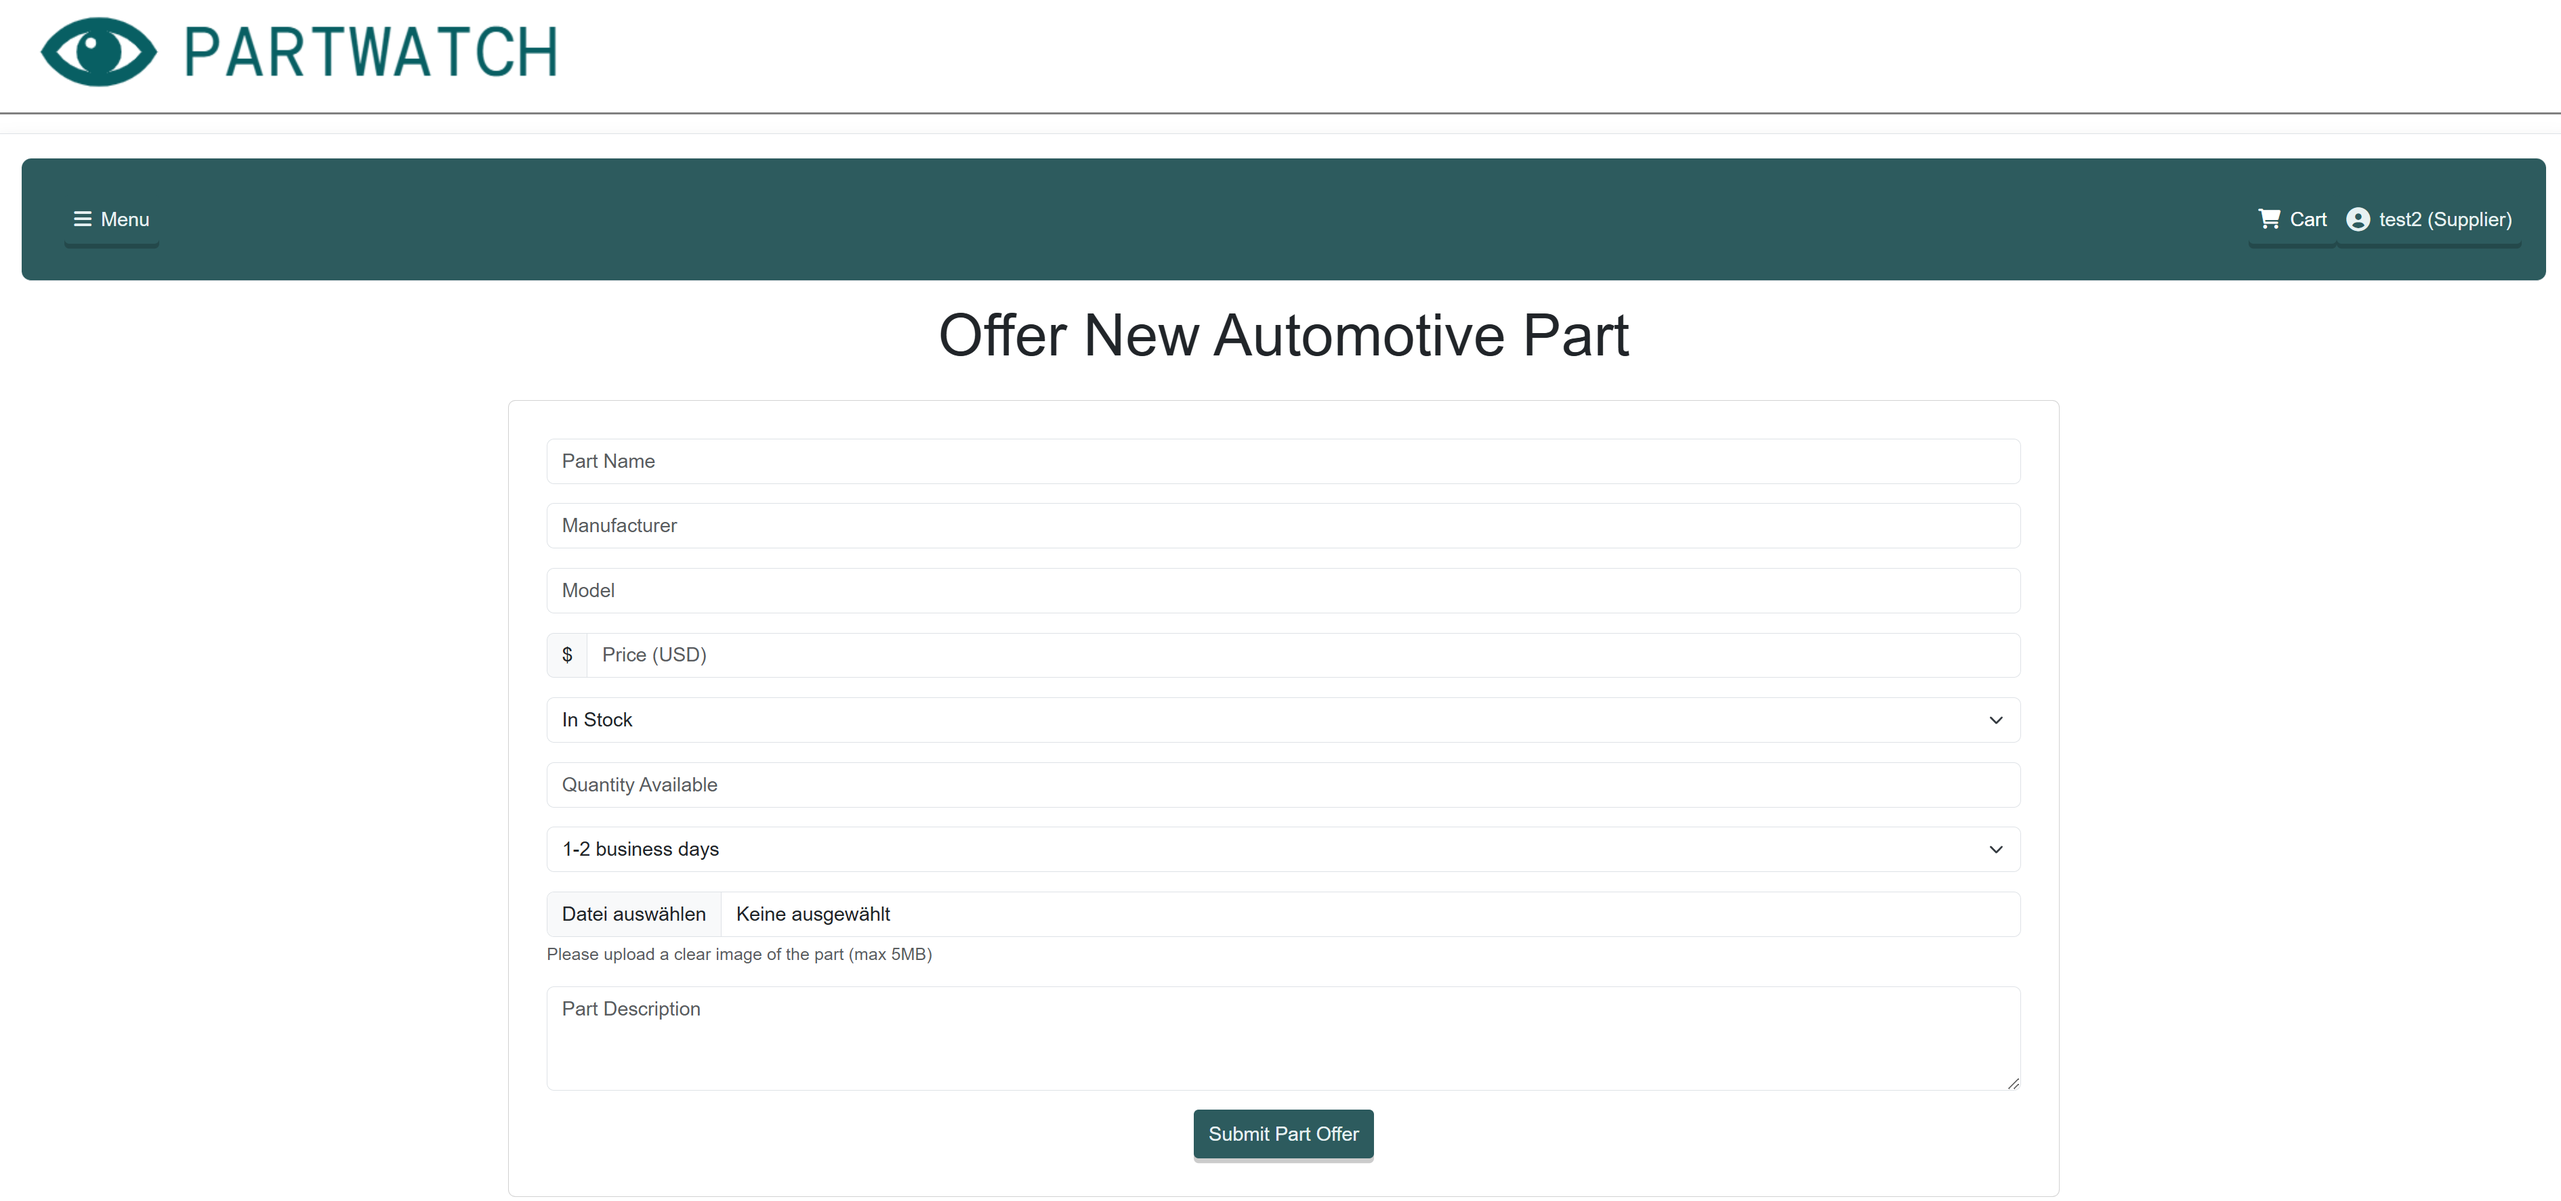
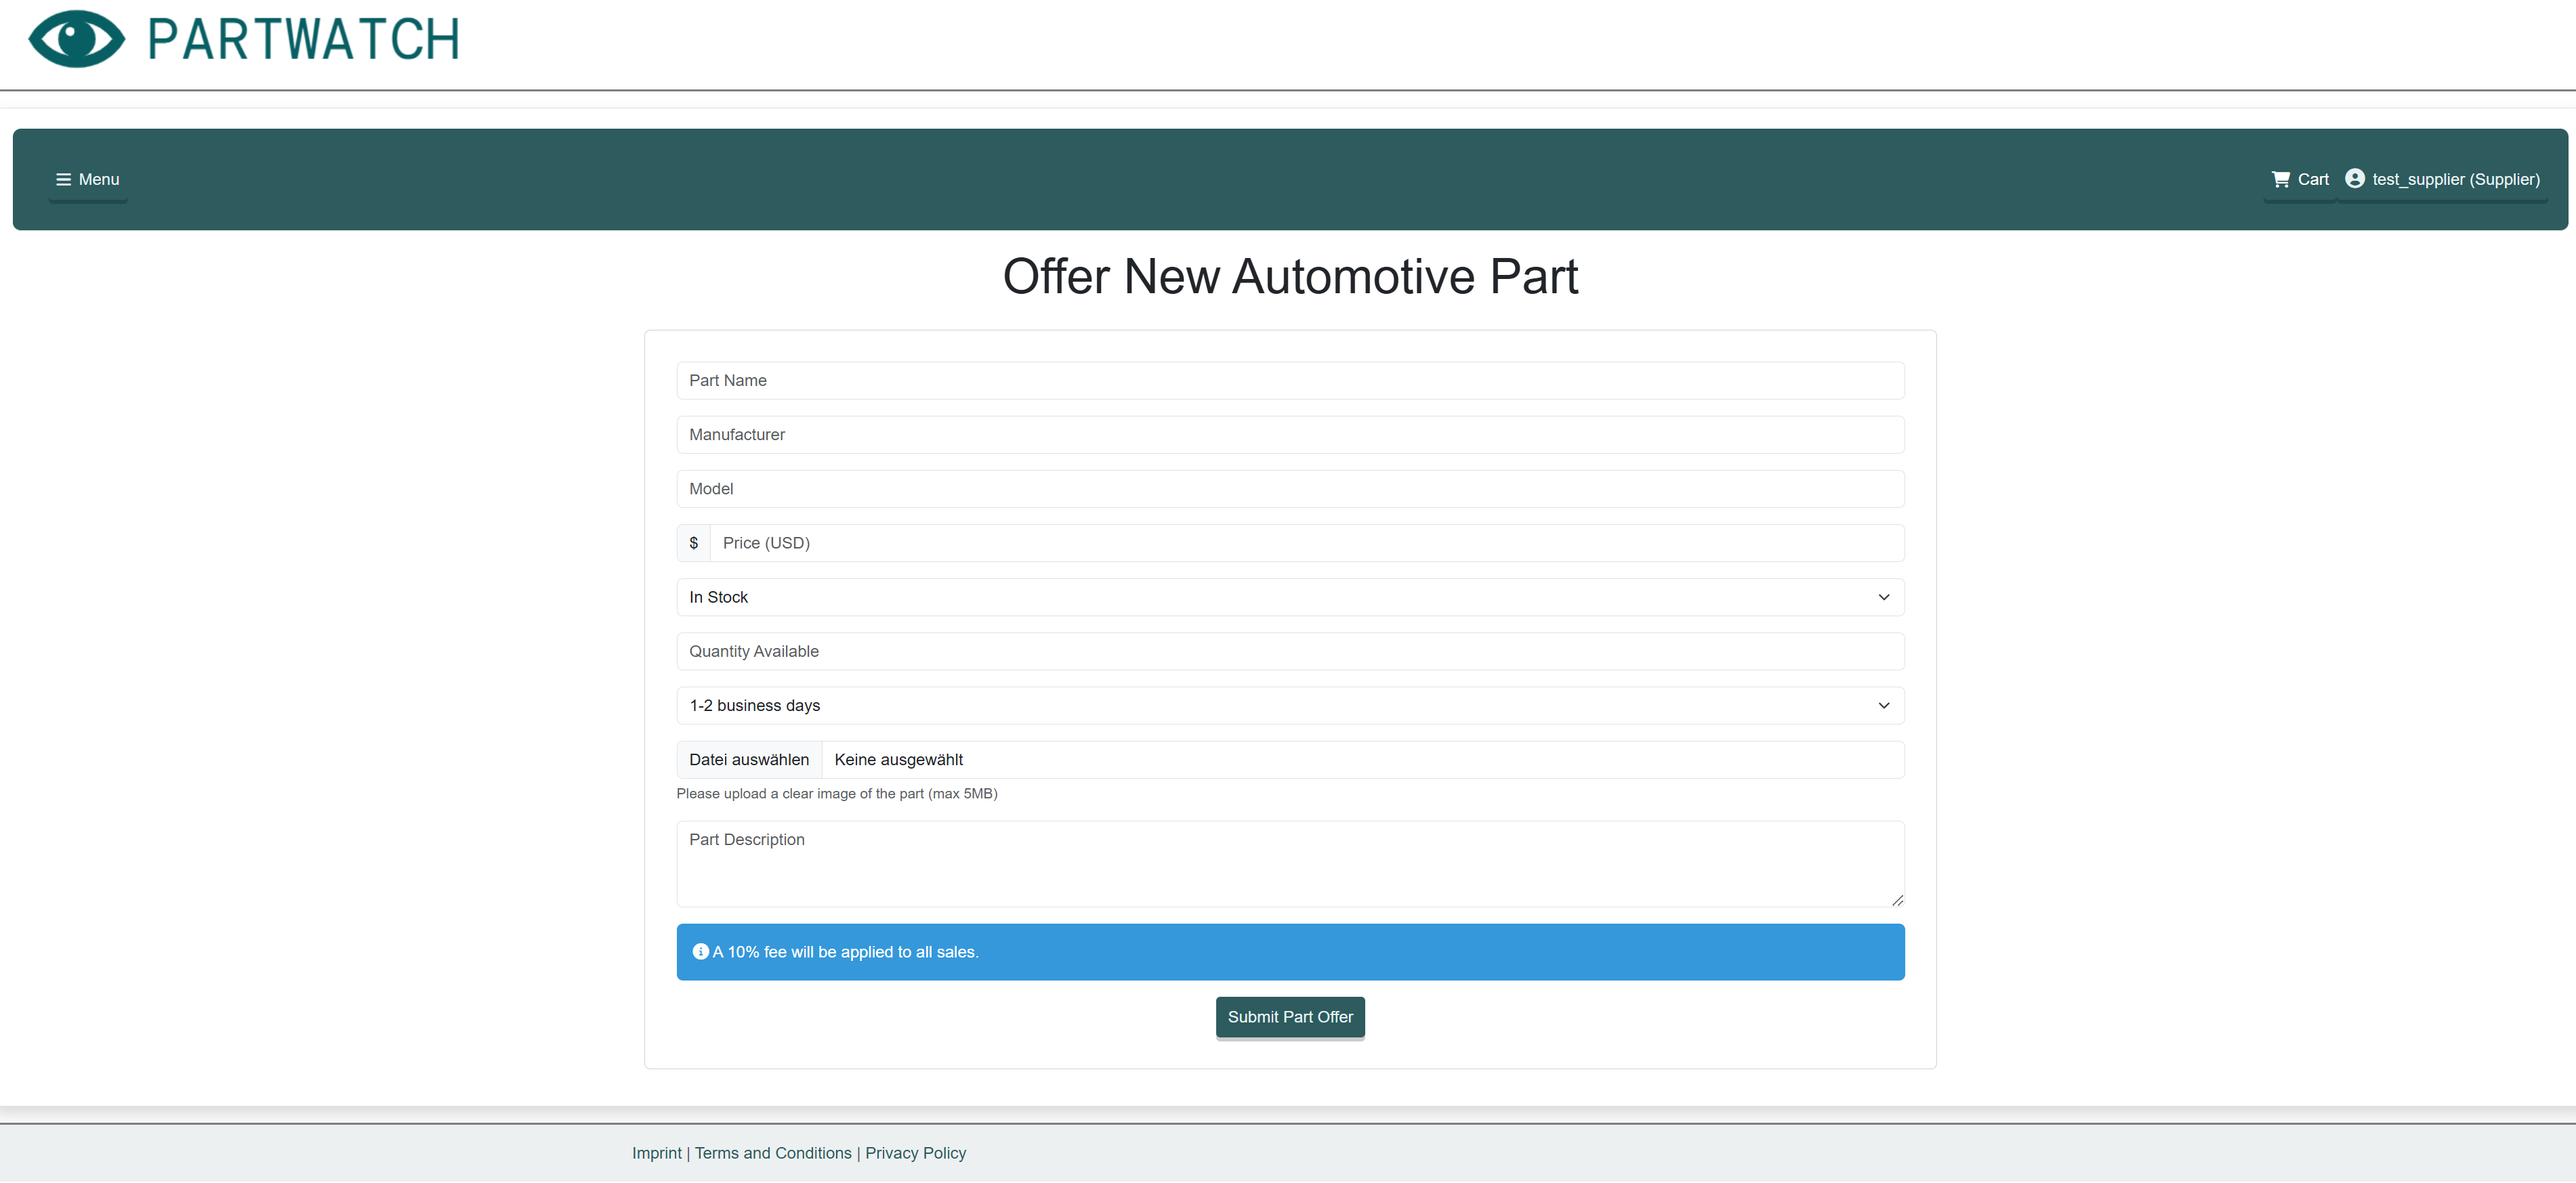
Added Imprint, terms and privacy notes to the footer in base.html aswell as the html pages

diff --git a/templates/imprint.html b/templates/imprint.html
@@ -1,0 +1,40 @@
+{% extends "base.html" %}
+
+{% block TITLE %}Imprint{% endblock %}
+
+{% block CONTENT %}
+<div class="container mx-auto px-4 py-8">
+    <h1 class="text-3xl font-bold mb-6">Legal Notice (Imprint)</h1>
+
+    <section class="mb-8">
+        <h2 class="text-xl font-semibold mb-4">Company Information</h2>
+        <p>PartWatch GmbH</p>
+        <p>Plattenhofer Weg 42</p>
+        <p>13503</p>
+        <p>Germany</p>
+    </section>
+
+    <section class="mb-8">
+        <h2 class="text-xl font-semibold mb-4">Contact</h2>
+        <p>Phone: +49 (0) 123 456789</p>
+        <p>Email: contact@partwatch.com</p>
+        <p>Website: www.partwatch.com</p>
+    </section>
+
+    <section class="mb-8">
+        <h2 class="text-xl font-semibold mb-4">Management</h2>
+        <p>Managing Directors: [Tim Luhmann], [Johann Estrada Pox]</p>
+        <p>Commercial Register: Amtsgericht Berlin</p>
+        <p>Registration Number: HRB 123456</p>
+        <p>VAT ID: DE123456789</p>
+    </section>
+
+    <section class="mb-8">
+        <h2 class="text-xl font-semibold mb-4">Regulatory Authority</h2>
+        <p>Chamber of Commerce and Industry Berlin (IHK Berlin)</p>
+        <p>Fasanenstraße 85</p>
+        <p>10623 Berlin</p>
+        <p>Germany</p>
+    </section>
+</div>
+{% endblock %}

diff --git a/templates/privacy.html b/templates/privacy.html
@@ -1,0 +1,34 @@
+{% extends "base.html" %}
+
+{% block TITLE %}Privacy Policy{% endblock %}
+
+{% block CONTENT %}
+<div class="container mx-auto px-4 py-8">
+    <h1 class="text-3xl font-bold mb-6">Privacy Policy</h1>
+
+    <section class="mb-8">
+        <h2 class="text-xl font-semibold mb-4">1. Information We Collect</h2>
+        <p>We collect information that you provide directly to us when using our services:</p>
+        <ul class="list-disc ml-6">
+            <li>Contact information</li>
+            <li>Account credentials</li>
+            <li>Usage data</li>
+        </ul>
+    </section>
+
+    <section class="mb-8">
+        <h2 class="text-xl font-semibold mb-4">2. How We Use Your Information</h2>
+        <p>We use the collected information for:</p>
+        <ul class="list-disc ml-6">
+            <li>Providing our services</li>
+            <li>Improving user experience</li>
+            <li>Communication with users</li>
+        </ul>
+    </section>
+
+    <section class="mb-8">
+        <h2 class="text-xl font-semibold mb-4">3. Data Protection</h2>
+        <p>We implement security measures to protect your personal information against unauthorized access.</p>
+    </section>
+</div>
+{% endblock %}

diff --git a/templates/terms.html b/templates/terms.html
@@ -1,0 +1,24 @@
+{% extends "base.html" %}
+
+{% block TITLE %}Terms of Service{% endblock %}
+
+{% block CONTENT %}
+<div class="container mx-auto px-4 py-8">
+    <h1 class="text-3xl font-bold mb-6">Terms of Service</h1>
+    
+    <section class="mb-8">
+        <h2 class="text-xl font-semibold mb-4">1. Acceptance of Terms</h2>
+        <p>By accessing and using this website, you accept and agree to be bound by these terms and conditions.</p>
+    </section>
+
+    <section class="mb-8">
+        <h2 class="text-xl font-semibold mb-4">2. Use License</h2>
+        <p>Permission is granted to temporarily view the materials on our website for personal, non-commercial use only.</p>
+    </section>
+
+    <section class="mb-8">
+        <h2 class="text-xl font-semibold mb-4">3. Disclaimer</h2>
+        <p>The materials on this website are provided on an 'as is' basis. We make no warranties, expressed or implied.</p>
+    </section>
+</div>
+{% endblock %}

diff --git a/templates/offer_part.html b/templates/offer_part.html
@@ -59,6 +59,11 @@
                     {{ form.description(class="form-control", rows="3", placeholder="Part Description") }}
                 </div>
 
+                <!-- Fee Notification -->
+                <div class="alert alert-info" role="alert">
+                    <i class="fas fa-info-circle"></i> A 10% fee will be applied to all sales.
+                </div>
+
                 <!-- Submit Button -->
                 <div class="text-center">
                     <button type="submit" class="custom-button">Submit Part Offer</button>

diff --git a/templates/base.html b/templates/base.html
@@ -103,6 +103,16 @@
         </div>
     </div>
 
+    <footer class="footer mt-auto py-3 bg-light">
+        <div class="container">
+            <span class="text-muted">
+                <a href="{{ url_for('imprint') }}">Imprint</a> |
+                <a href="{{ url_for('terms') }}">Terms and Conditions</a> | 
+                <a href="{{ url_for('privacy') }}">Privacy Policy</a>
+            </span>
+        </div>
+    </footer>
+
     {{ bootstrap.load_js() }}
 </body>
 

diff --git a/migrations/versions/initial_setup.py b/migrations/versions/initial_setup.py
@@ -1,0 +1,84 @@
+"""initial database setup
+
+Revision ID: initial_setup_v1
+Revises: 
+Create Date: 2024-12-14 21:00:00.000000
+"""
+from alembic import op
+import sqlalchemy as sa
+from datetime import datetime
+
+revision = 'initial_setup_v1'
+down_revision = None
+branch_labels = None
+depends_on = None
+
+def upgrade():
+    # Create user table
+    op.create_table('user',
+        sa.Column('id', sa.Integer(), nullable=False),
+        sa.Column('username', sa.String(150), nullable=False),
+        sa.Column('email', sa.String(150), nullable=False),
+        sa.Column('password', sa.String(200), nullable=False),
+        sa.Column('role', sa.String(50), nullable=False),
+        sa.PrimaryKeyConstraint('id'),
+        sa.UniqueConstraint('email'),
+        sa.UniqueConstraint('username')
+    )
+
+    # Create part table
+    op.create_table('part',
+        sa.Column('id', sa.Integer(), nullable=False),
+        sa.Column('name', sa.String(150), nullable=False),
+        sa.Column('supplier_id', sa.Integer(), nullable=False),
+        sa.Column('price', sa.Float(), nullable=False),
+        sa.Column('availability', sa.String(100), nullable=False),
+        sa.Column('quantity', sa.Integer(), nullable=False),
+        sa.Column('delivery', sa.String(100), nullable=False),
+        sa.Column('image', sa.String(200), nullable=True),
+        sa.Column('description', sa.Text(), nullable=False),
+        sa.Column('manufacturer', sa.String(100), nullable=False),
+        sa.Column('model', sa.String(100), nullable=False),
+        sa.ForeignKeyConstraint(['supplier_id'], ['user.id'], ),
+        sa.PrimaryKeyConstraint('id')
+    )
+
+    # Create order table
+    op.create_table('order',
+        sa.Column('id', sa.Integer(), nullable=False),
+        sa.Column('user_id', sa.Integer(), nullable=False),
+        sa.Column('order_date', sa.DateTime(), nullable=False),
+        sa.Column('total_amount', sa.Float(), nullable=False),
+        sa.Column('payment_status', sa.String(20), nullable=False),
+        sa.Column('payment_reference', sa.String(100), nullable=True),
+        sa.Column('payment_date', sa.DateTime(), nullable=True),
+        sa.ForeignKeyConstraint(['user_id'], ['user.id'], ),
+        sa.PrimaryKeyConstraint('id')
+    )
+
+    # Create purchase table with all fields including delivery info
+    op.create_table('purchase',
+        sa.Column('id', sa.Integer(), nullable=False),
+        sa.Column('order_id', sa.Integer(), nullable=False),
+        sa.Column('part_id', sa.Integer(), nullable=False),
+        sa.Column('user_id', sa.Integer(), nullable=False),
+        sa.Column('quantity', sa.Integer(), nullable=False),
+        sa.Column('total_price', sa.Float(), nullable=False),
+        sa.Column('purchase_date', sa.DateTime(), nullable=False),
+        sa.Column('delivery_name', sa.String(150), nullable=False),
+        sa.Column('delivery_street', sa.String(200), nullable=False),
+        sa.Column('delivery_city', sa.String(100), nullable=False),
+        sa.Column('delivery_postal_code', sa.String(20), nullable=False),
+        sa.Column('delivery_country', sa.String(100), nullable=False),
+        sa.Column('delivery_phone', sa.String(50), nullable=False),
+        sa.ForeignKeyConstraint(['order_id'], ['order.id'], ),
+        sa.ForeignKeyConstraint(['part_id'], ['part.id'], ),
+        sa.ForeignKeyConstraint(['user_id'], ['user.id'], ),
+        sa.PrimaryKeyConstraint('id')
+    )
+
+def downgrade():
+    op.drop_table('purchase')
+    op.drop_table('order')
+    op.drop_table('part')
+    op.drop_table('user')

diff --git a/app.py b/app.py
@@ -515,14 +515,24 @@ def purchase_cart():
 @app.route('/my_orders')
 @login_required
 def my_orders():
-    """Display the user's order history."""
     orders = Order.query.filter_by(user_id=current_user.id).order_by(Order.order_date.desc()).all()
     return render_template('my_orders.html', orders=orders)
 
 @app.route('/faq')
 def faq():
-    """Display the FAQ page."""
     return render_template('faq.html')
+
+@app.route('/imprint')
+def imprint():
+    return render_template('imprint.html')
+
+@app.route('/terms')
+def terms():
+    return render_template('terms.html')
+
+@app.route('/privacy')
+def privacy():
+    return render_template('privacy.html')
 
 
 # Main Execution

diff --git a/docs/ui-components.md b/docs/ui-components.md
@@ -94,3 +94,21 @@ For a quick reference of the markdown syntax, visit [this page](https://github.c
 ```
 
 ![offer_part](assets/images/fswd_edit_part.png)
+
+```markdown
+![offer_part](assets/images/fswd_imprint.png)
+```
+
+![offer_part](assets/images/fswd_imprint.png)
+
+```markdown
+![offer_part](assets/images/fswd_terms.png)
+```
+
+![offer_part](assets/images/fswd_terms.png)
+
+```markdown
+![offer_part](assets/images/fswd_privacy.png)
+```
+
+![offer_part](assets/images/fswd_privacy.png)
